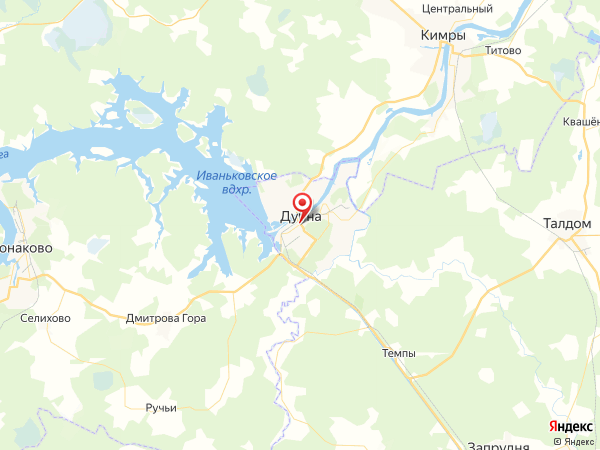
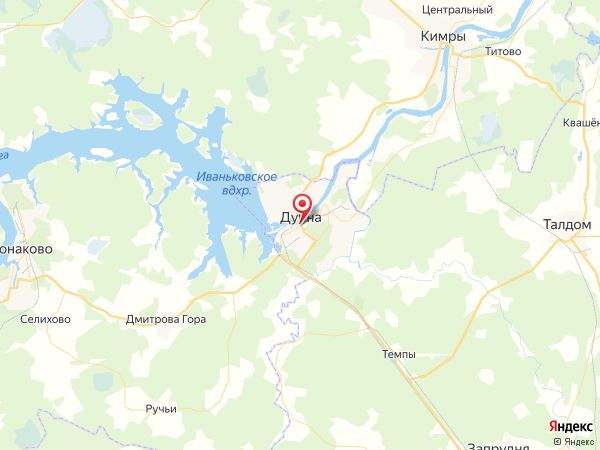
Add files via upload

diff --git a/templates/index.html b/templates/index.html
@@ -1,28 +1,41 @@
 {% extends "base.html" %}
 
 {% block content %}
-<center><table class="container" cellpadding="30" style="margin-top: 30px">
+<center><table class="container" cellpadding="7%" style="margin-top: 40px; width: 90%">
     <tr class="row">
         <a name="products"></a>
         {% for item in products %}
             {% if item[3] != "img\\img5.jpg" and item[3] != "img\\img6.jpg" %}
-                <td class="col">
+                <td class="col" width="25%">
                     <div class="product" style="margin-bottom: 30px">
                         <div class="image" style="margin-bottom: 10px">
                             {% if item[3] == "img\\img1.jpg" %}
-                                <img src="/static/img/img1.jpg" height="400" width="300" style="object-fit: cover; border-radius: 7px">
+                                <img src="/static/img/img1.jpg" width="100%" style="object-fit: cover; border-radius: 7px">
                             {% elif item[3] == "img\\img2.jpg"%}
-                                <img src="/static/img/img2.jpg" height="400" width="300" style="object-fit: cover; border-radius: 7px">
+                                <img src="/static/img/img2.jpg" width="100%" style="object-fit: cover; border-radius: 7px">
                             {% elif item[3] == "img\\img3.jpg"%}
-                                <img src="/static/img/img3.jpg" height="400" width="300" style="object-fit: cover; border-radius: 7px">
+                                <img src="/static/img/img3.jpg" width="100%" style="object-fit: cover; border-radius: 7px">
                             {% else %}
-                                <img src="/static/img/img4.jpg" height="400" width="300" style="object-fit: cover; border-radius: 7px">
+                                <img src="/static/img/img4.jpg" width="100%" style="object-fit: cover; border-radius: 7px">
                             {% endif %}
                         </div>
 
                         <div class="info">
-                            <h3 style="text-decoration: none; font-weight: 500; font-size: 20px; font-family:'GraphikTT',Arial,sans-serif; margin-bottom: -15px">{{ item[0] }}</h3>
-                            <h4 style="text-decoration: none; font-weight: 350; font-size: 18px; font-family:'GraphikTT',Arial,sans-serif; margin-bottom: 5px">Состав: <small style="opacity: 0.8">{{ item[1] }}</small></h4>
+                            {% if item[3] == "img\\img1.jpg" %}
+                                <h3 style="text-decoration: none; font-weight: 500; font-size: 20px; font-family:'GraphikTT',Arial,sans-serif; margin-bottom: -15px">{{ item[0] }}&nbsp;&nbsp;&nbsp;&nbsp;&nbsp;&nbsp;&nbsp;&nbsp;&nbsp;</h3>
+                            {% elif item[3] == "img\\img2.jpg"%}
+                                <h3 style="text-decoration: none; font-weight: 500; font-size: 20px; font-family:'GraphikTT',Arial,sans-serif; margin-bottom: -15px">{{ item[0] }}&nbsp;&nbsp;&nbsp;&nbsp;&nbsp;&nbsp;&nbsp;&nbsp;&nbsp;&nbsp;&nbsp;&nbsp;&nbsp;</h3>
+                            {% elif item[3] == "img\\img3.jpg"%}
+                                <h3 style="text-decoration: none; font-weight: 500; font-size: 20px; font-family:'GraphikTT',Arial,sans-serif; margin-bottom: -15px">{{ item[0] }}&nbsp;&nbsp;&nbsp;&nbsp;&nbsp;&nbsp;&nbsp;&nbsp;&nbsp;</h3>
+                            {% elif item[3] == "img\\img4.jpg"%}
+                                <h3 style="text-decoration: none; font-weight: 500; font-size: 20px; font-family:'GraphikTT',Arial,sans-serif; margin-bottom: -15px">{{ item[0] }}&nbsp;&nbsp;&nbsp;&nbsp;&nbsp;&nbsp;&nbsp;</h3>
+                            {% endif %}
+
+                            {% if item[3] == "img\\img1.jpg" or item[3] == "img\\img2.jpg" or item[3] == "img\\img3.jpg" %}
+                                <h4 style="text-decoration: none; font-weight: 350; font-size: 18px; font-family:'GraphikTT',Arial,sans-serif; margin-bottom: 5px">Состав: <small style="opacity: 0.8">{{ item[1] }}</small></h4>
+                            {% elif item[3] == "img\\img4.jpg"%}
+                                <h4 style="text-decoration: none; font-weight: 350; font-size: 18px; font-family:'GraphikTT',Arial,sans-serif; margin-bottom: 5px">Состав: <small style="opacity: 0.8">{{ item[1] }}&nbsp;</small></h4>
+                            {% endif %}
 
                             <div class="product_info" style="display: flex; flex-flow: nowrap; justify-content: space-between; align-items: center">
                                 <span class="price" style="font-weight: 700; font-size: 18px; font-family:'GraphikTT',Arial,sans-serif">{{ item[2] }}<small style="opacity: 0.9"> ₽</small></span>
@@ -39,19 +52,26 @@
         <a name="products"></a>
         {% for item in products %}
             {% if item[3] == "img\\img5.jpg" or item[3] == "img\\img6.jpg" %}
-                <td class="col">
+                <td class="col" width="25%">
                     <div class="product" style="margin-bottom: 30px">
                         <div class="image" style="margin-bottom: 10px">
                             {% if item[3] == "img\\img5.jpg" %}
-                                <img src="/static/img/img5.jpg" height="400" width="300" style="object-fit: cover; border-radius: 7px">
+                                <img src="/static/img/img5.jpg" width="100%" style="object-fit: cover; border-radius: 7px">
                             {% elif item[3] == "img\\img6.jpg"%}
-                                <img src="/static/img/img6.jpg" height="400" width="300" style="object-fit: cover; border-radius: 7px">
+                                <img src="/static/img/img6.jpg" width="100%" style="object-fit: cover; border-radius: 7px">
                             {% endif %}
                         </div>
 
                         <div class="info">
-                            <h3 style="text-decoration: none; font-weight: 500; font-size: 20px; font-family:'GraphikTT',Arial,sans-serif; margin-bottom: -15px">{{ item[0] }}</h3>
-                            <h4 style="text-decoration: none; font-weight: 350; font-size: 18px; font-family:'GraphikTT',Arial,sans-serif; margin-bottom: 5px">Состав: <small style="opacity: 0.8">{{ item[1] }}</small></h4>
+                            {% if item[3] == "img\\img5.jpg" %}
+                                <h3 style="text-decoration: none; font-weight: 500; font-size: 20px; font-family:'GraphikTT',Arial,sans-serif; margin-bottom: -15px">{{ item[0] }}</h3>
+                            {% elif item[3] == "img\\img6.jpg"%}
+                                <h3 style="text-decoration: none; font-weight: 500; font-size: 20px; font-family:'GraphikTT',Arial,sans-serif; margin-bottom: -15px">{{ item[0] }}&nbsp;&nbsp;&nbsp;&nbsp;&nbsp;&nbsp;&nbsp;&nbsp;&nbsp;&nbsp;&nbsp;</h3>
+                            {% endif %}
+
+                            {% if item[3] == "img\\img5.jpg" or item[3] == "img\\img6.jpg" %}
+                                <h4 style="text-decoration: none; font-weight: 350; font-size: 18px; font-family:'GraphikTT',Arial,sans-serif; margin-bottom: 5px">Состав: <small style="opacity: 0.8">{{ item[1] }}&nbsp;&nbsp;&nbsp;&nbsp;</small></h4>
+                            {% endif %}
 
                             <div class="product_info" style="display: flex; flex-flow: nowrap; justify-content: space-between; align-items: center">
                                 <span class="price" style="font-weight: 700; font-size: 18px; font-family:'GraphikTT',Arial,sans-serif">{{ item[2] }}<small style="opacity: 0.9"> ₽</small></span>
@@ -63,10 +83,11 @@
             {% endif %}
         {% endfor %}
     </tr>
+
 </table></center>
 
 <a name="questions"></a>
-<center><hr class="questions" style="border: none; background-color: #1240AB; height: 3px; width: 80%"></center>
+<center><hr class="questions" style="border: none; background-color: #1240AB; height: 3px; width: 80%; margin-top: 40px"></center>
 
 <div class="question" style="display: flex; flex-flow: nowrap; justify-content: space-between; align-items: center">
     <h2 style="color: #1240AB; text-decoration: none; font-weight: 550; font-size: 20px; font-family:'GraphikTT',Arial,sans-serif; opacity: 1; margin-left: 10%; margin-bottom: 25px">Как ухаживать за вязанными вещами?</h2>

diff --git a/templates/base.html b/templates/base.html
@@ -42,8 +42,8 @@
 
         <footer style="width: 100%; float: left; padding: 0%; margin-top: 50px">
             <a name="footer"></a>
-            <hr style="border: none; background-color: #1240AB; height: 450px; width: 100%; margin-bottom: 0px; margin-left: 0; margin-right: 0">
-            <div style="margin-top: -440px; margin-left: 10%; margin-right: 10%; position: relative; display: -ms-flexbox; display: flex; -ms-flex-wrap: wrap; flex-wrap: wrap; -ms-flex-align: center; -ms-flex-pack: justify; justify-content: space-between; padding: .5rem 1rem">
+            <hr style="border: none; background-color: #1240AB; height: 600px; width: 100%; margin-bottom: 0px; margin-left: 0; margin-right: 0">
+            <div style="margin-top: -590px; margin-left: 10%; margin-right: 10%; position: relative; display: -ms-flexbox; display: flex; -ms-flex-wrap: wrap; flex-wrap: wrap; -ms-flex-align: center; -ms-flex-pack: justify; justify-content: space-between; padding: .5rem 1rem">
                 <div class="left-footer-info">
                     <h2 style="color: #fff; text-decoration: none; font-weight: 500; font-size: 20px; font-family:'GraphikTT',Arial,sans-serif; opacity: 1; margin-bottom: 20px">Свяжитесь с нами:</h2>
                         <nav style="margin-left: 2%">
@@ -53,8 +53,8 @@
                 </div>
 
                 <div class="right-footer-info">
-                    <h2 style="color: #fff; text-decoration: none; font-weight: 500; font-size: 20px; font-family:'GraphikTT',Arial,sans-serif; opacity: 1; margin-bottom: 5px">Мы нахожимся по адресу:</h2>
-                    <h2 style="color: #fff; text-decoration: none; font-weight: 350; font-size: 18px; font-family:'GraphikTT',Arial,sans-serif; opacity: 0.9; margin-bottom: 20px">город Дубна (МО)</h2>
+                    <h2 style="color: #fff; text-decoration: none; font-weight: 500; font-size: 20px; font-family:'GraphikTT',Arial,sans-serif; opacity: 1; margin-bottom: 5px">Мы доставляем "из рук в руки" здесь:</h2>
+                    <h2 style="color: #fff; text-decoration: none; font-weight: 350; font-size: 18px; font-family:'GraphikTT',Arial,sans-serif; opacity: 0.9; margin-bottom: 20px">{{ address }}</h2>
                     <div class="image" style="margin-bottom: 0px">
                         <img src="/static/img/map.png" height="300" width="400" style="object-fit: cover; border-radius: 7px">
                     </div>

diff --git a/main.py b/main.py
@@ -4,6 +4,7 @@ from data import db_session
 from data.users import User
 from data.products import Products
 from forms.user import RegisterForm, LoginForm
+from data.api import work_with_api
 
 app = Flask(__name__)
 app.config['SECRET_KEY'] = 'yandexlyceum_secret_key'
@@ -21,6 +22,9 @@ def logout():
 
 @app.route('/login', methods=['GET', 'POST'])
 def login():
+    # получение полного адреса города Дубна
+    full_adress = work_with_api('Дубна')
+
     form = LoginForm()
     if form.validate_on_submit():
         db_sess = db_session.create_session()
@@ -31,7 +35,7 @@ def login():
         return render_template('login.html',
                                message="Неправильный логин или пароль",
                                form=form)
-    return render_template('login.html', title='Авторизация', form=form)
+    return render_template('login.html', title='Авторизация', form=form, address=full_adress)
 
 
 @login_manager.user_loader
@@ -42,17 +46,20 @@ def load_user(user_id):
 
 @app.route('/register', methods=['GET', 'POST'])
 def register():
+    # получение полного адреса города Дубна
+    full_adress = work_with_api('Дубна')
+
     form = RegisterForm()
     if form.validate_on_submit():
         if form.password.data != form.password_again.data:
             return render_template('register.html', title='Регистрация',
                                    form=form,
-                                   message="Пароли не совпадают")
+                                   message="Пароли не совпадают", address=full_adress)
         db_sess = db_session.create_session()
         if db_sess.query(User).filter(User.email == form.email.data).first():
             return render_template('register.html', title='Регистрация',
                                    form=form,
-                                   message="Такой пользователь уже есть")
+                                   message="Такой пользователь уже есть", address=full_adress)
         user = User(
             surname=form.surname.data,
             name=form.name.data,
@@ -63,18 +70,23 @@ def register():
         db_sess.add(user)
         db_sess.commit()
         return redirect('/login')
-    return render_template('register.html', title='Регистрация', form=form)
+
+    return render_template('register.html', title='Регистрация', form=form, address=full_adress)
 
 
 @app.route('/')
 @app.route('/index')
 def index():
+    # получение полного адреса города Дубна
+    full_adress = work_with_api('Дубна')
+
     db_session.global_init("db/products.db")
     db_sess = db_session.create_session()
     products = []
     for product in db_sess.query(Products).all():
         products.append((product.title, product.composition, product.price, product.path_to_photo))
-    return render_template('index.html', products=products)
+
+    return render_template('index.html', products=products, address=full_adress)
 
 
 def add_user(surname, name, email, phone):
@@ -102,6 +114,9 @@ def add_product(title, composition, price, path_to_photo):
 def main():
     # db_session.global_init("db/products.db")
     # db_sess = db_session.create_session()
+
+    # создание изображения по адресу "Дубна"
+    work_with_api('Дубна', new_picture=True)
 
     app.run()
 

diff --git a/data/api.py b/data/api.py
@@ -1,0 +1,42 @@
+import requests
+
+
+def find_place(toponim_to_find):
+    toponim_to_find = '+'.join(toponim_to_find.split())
+
+    server_gtocoder = 'http://geocode-maps.yandex.ru/1.x/'
+    params = {'apikey': "40d1649f-0493-4b70-98ba-98533de7710b",
+              'geocode': toponim_to_find,
+              'format': 'json'}
+
+    response_geocoder = requests.get(server_gtocoder, params=params)
+    json_response = response_geocoder.json()
+
+    pos = json_response['response']['GeoObjectCollection']['featureMember'][0]['GeoObject']['Point']['pos']
+    coord_x, coord_y = pos.split()
+
+    full_address = json_response['response']['GeoObjectCollection']['featureMember'][0]['GeoObject']['metaDataProperty']['GeocoderMetaData']['text']
+
+    return float(coord_x), float(coord_y), full_address
+
+
+def picture(coord_x, coord_y, scale, space='map', new_pt=False):
+    map_request = f"http://static-maps.yandex.ru/1.x/?ll={coord_x},{coord_y}&spn={scale},{scale}&l={space}"
+
+    # метка
+    pt = f'&pt={coord_x},{coord_y},pm2rdm'
+    map_request += pt
+
+    response = requests.get(map_request)
+
+    map_file = "static/img/map.png"
+    with open(map_file, "wb") as file:
+        file.write(response.content)
+
+
+def work_with_api(title_find_place, new_picture=False):
+    coord_x, coord_y, full_address = find_place(title_find_place)
+    if new_picture:
+        picture(coord_x, coord_y, 0.3)
+
+    return full_address
